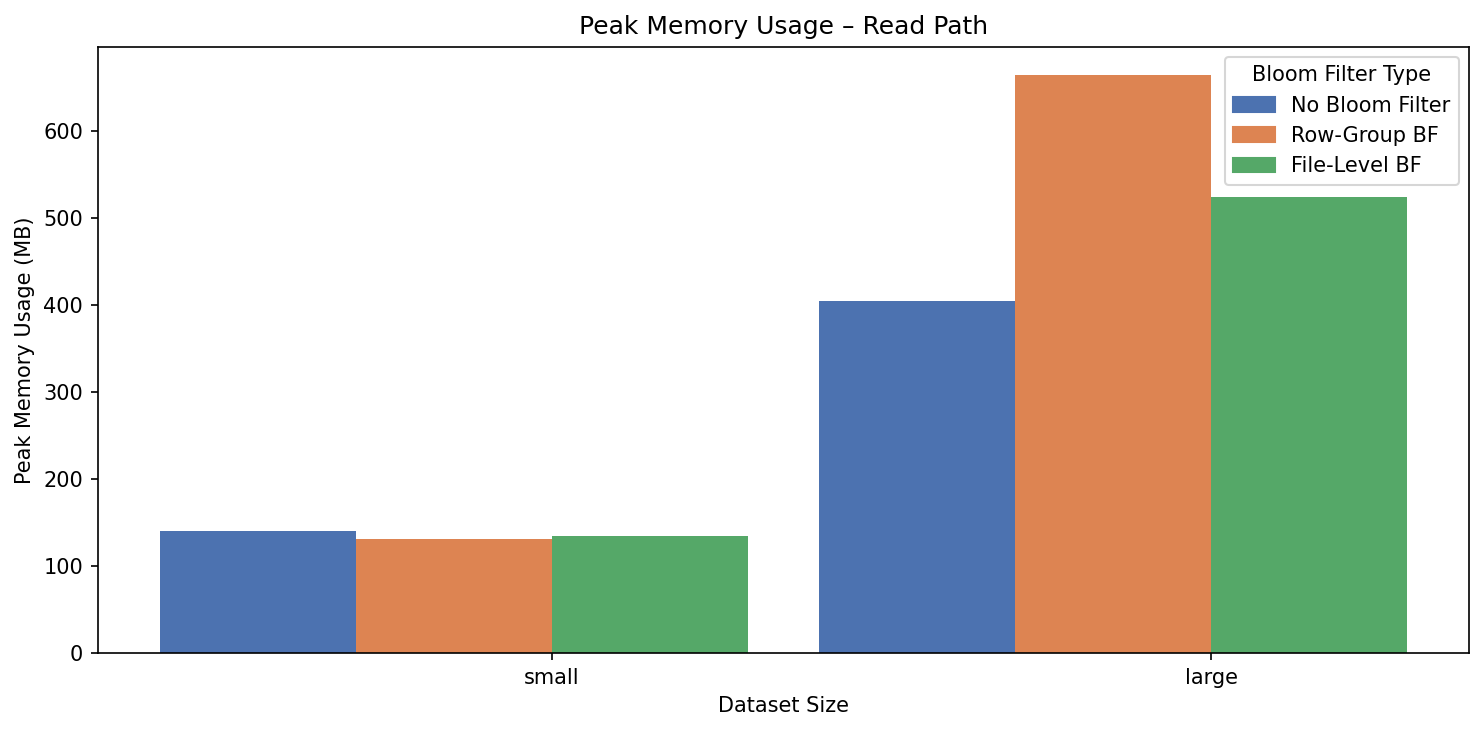
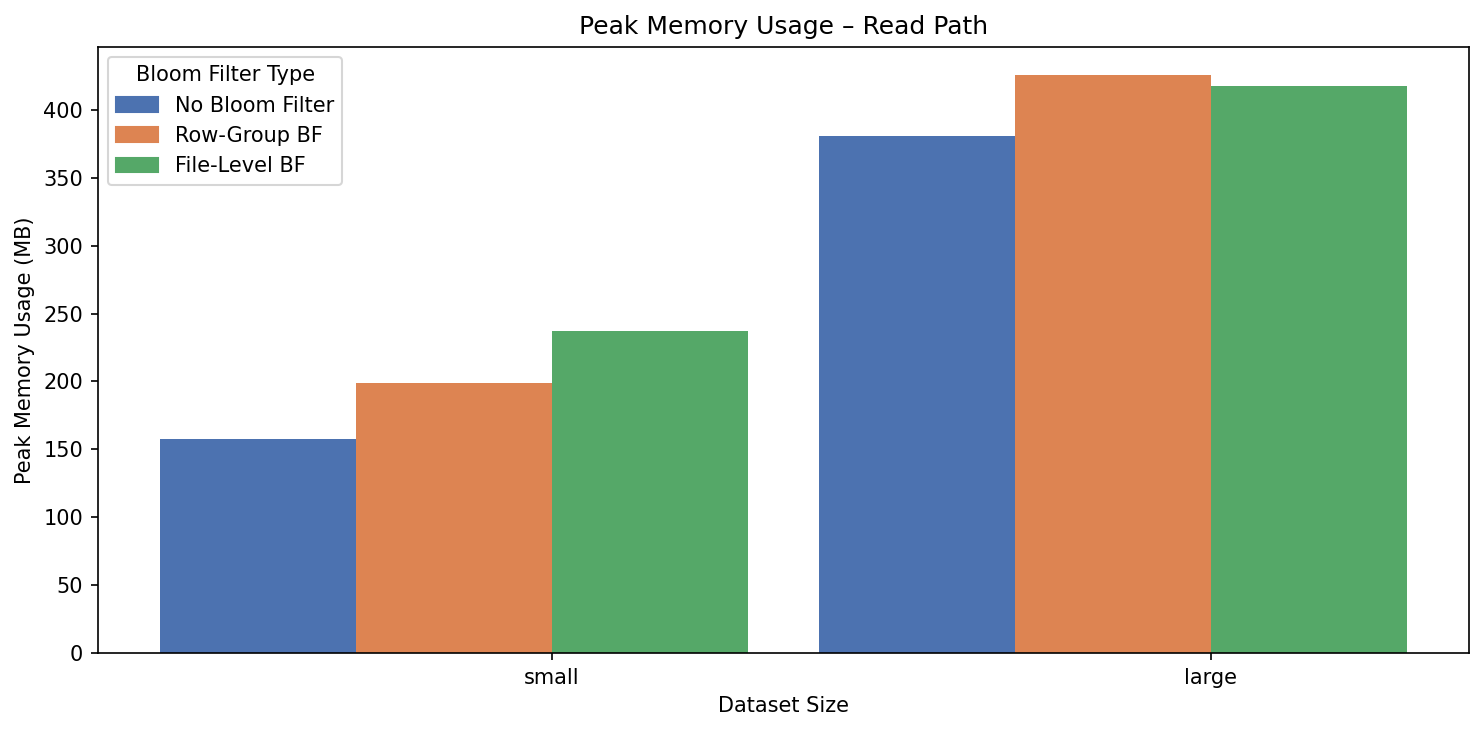
super experiment python script with new graphs averaged from 5 runs

diff --git a/dev-spark/super_experiment.py b/dev-spark/super_experiment.py
@@ -1,0 +1,229 @@
+#!/usr/bin/env python3
+"""
+Super experiment: runs each (bloom_mode x dataset_size) combination N times,
+averages the noisy metrics (memory, time), and writes bloom_filter_results.json.
+
+Table creation runs once per (mode, size) — it is deterministic.
+ReadTableSpark runs N times per combination and the measurements are averaged.
+
+Usage (from repo root):
+  python dev-spark/super_experiment.py
+
+Custom run count:
+  python dev-spark/super_experiment.py --runs 5
+"""
+
+import argparse
+import json
+import subprocess
+import sys
+from pathlib import Path
+from typing import Any, Dict, List, Optional, Tuple
+
+REPO_ROOT = Path(__file__).resolve().parents[1]
+DEV_SPARK = REPO_ROOT / "dev-spark"
+GRAPHING = REPO_ROOT / "graphing_scripts"
+OUTPUT_JSON = GRAPHING / "bloom_filter_results.json"
+
+BLOOM_MODES = ["none", "row_group", "file_level"]
+DATASET_SIZES = [
+    ("small", 10, 100_000),   # 10 files x 100K rows = 1M rows
+    ("large", 50, 500_000),   # 50 files x 500K rows = 25M rows
+]
+
+
+def run_gradle(task: str, run_args: Optional[str] = None) -> None:
+    cmd = ["./gradlew", task]
+    if run_args is not None:
+        cmd.append(f"-PrunArgs={run_args}")
+    print(f"  Running: {' '.join(cmd)}")
+    r = subprocess.run(cmd, cwd=REPO_ROOT)
+    if r.returncode != 0:
+        sys.exit(r.returncode)
+
+
+def load_json(path: Path) -> Dict[str, Any]:
+    with path.open() as f:
+        return json.load(f)
+
+
+def _n(v: Any, default: float = 0.0) -> float:
+    return float(v) if v is not None else default
+
+
+def _int(v: Any, default: int = 0) -> int:
+    return int(v) if v is not None else default
+
+
+def _avg(values: List[Any]) -> float:
+    nums = [float(v) for v in values if v is not None]
+    return sum(nums) / len(nums) if nums else 0.0
+
+
+def _avg_int(values: List[Any]) -> Optional[int]:
+    nums = [float(v) for v in values if v is not None]
+    return round(sum(nums) / len(nums)) if nums else None
+
+
+def merge_read_metrics(runs: List[Dict[str, Any]]) -> Dict[str, Any]:
+    """
+    Average the noisy float measurements across runs.
+    Deterministic counts/sizes are taken from the first run unchanged.
+    """
+    merged = dict(runs[0])
+    merged["maxMemoryUsage"] = _avg([r.get("maxMemoryUsage") for r in runs])
+    merged["planningMemoryUsage"] = _avg([r.get("planningMemoryUsage") for r in runs])
+    merged["totalReadDuration"] = _avg_int([r.get("totalReadDuration") for r in runs])
+    return merged
+
+
+def build_results(
+    experiments: List[Tuple[str, str, Dict[str, Any], Dict[str, Any]]],
+    dataset_size_labels: List[str],
+) -> Dict[str, Any]:
+    """Build bloom_filter_results.json in the format expected by graphing_scripts."""
+    bf_key = {
+        "none": "no_bloom_filter",
+        "row_group": "row_group_bloom_filter",
+        "file_level": "file_level_bloom_filter",
+    }
+    by_mode_size: Dict[Tuple[str, str], Tuple[Dict[str, Any], Dict[str, Any]]] = {}
+    for mode, size_label, w, r in experiments:
+        by_mode_size[(mode, size_label)] = (w, r)
+
+    pruning_read = {k: [] for k in bf_key.values()}
+    disk_storage_bytes = {k: [] for k in bf_key.values()}
+    memory_read_mb = {k: [] for k in bf_key.values()}
+    planning_memory_read_mb = {k: [] for k in bf_key.values()}
+    execution_memory_read_mb = {k: [] for k in bf_key.values()}
+    memory_write_mb = {k: [] for k in bf_key.values()}
+    time_read_ms = {k: [] for k in bf_key.values()}
+    time_write_ms = {k: [] for k in bf_key.values()}
+
+    def sec_to_ms(x: Any) -> int:
+        return round(_n(x) * 1000)
+
+    for key in bf_key.values():
+        mode = next(m for m, k in bf_key.items() if k == key)
+        for size_label in dataset_size_labels:
+            pair = by_mode_size.get((mode, size_label))
+            if not pair:
+                continue
+            w, r = pair
+            total_rg = w.get("totalRowGroups") if w.get("totalRowGroups") is not None else r.get("totalRowGroups")
+            pruning_read[key].append({
+                "total_row_groups": _int(total_rg),
+                "skipped_row_groups": _int(r.get("skippedRowGroups")),
+                "total_data_files": _int(w.get("totalDataFiles")),
+                "skipped_data_files": _int(r.get("skippedDataFiles")),
+            })
+            disk_storage_bytes[key].append({
+                "puffin_bytes": _int(w.get("puffinDiskSizeInBytes")),
+                "manifest_overhead_bytes": 0,
+            })
+            memory_read_mb[key].append(_n(r.get("maxMemoryUsage")))
+            planning_memory_read_mb[key].append(_n(r.get("planningMemoryUsage")))
+            execution_memory_read_mb[key].append(
+                max(0.0, _n(r.get("maxMemoryUsage")) - _n(r.get("planningMemoryUsage")))
+            )
+            memory_write_mb[key].append(_n(w.get("maxMemoryUsage")))
+            total_read_ms = r.get("totalReadDuration")
+            if total_read_ms is not None:
+                total_read_ms = round(_n(total_read_ms))
+            time_read_ms[key].append({
+                "metadata_ms": sec_to_ms(r.get("manifestReadDuration")),
+                "puffin_ms": sec_to_ms(r.get("puffinReadDuration")),
+                "data_ms": sec_to_ms(r.get("datafileReadDuration")),
+                "total_ms": total_read_ms,
+            })
+            total_write_ms = w.get("totalWriteDuration")
+            if total_write_ms is not None:
+                total_write_ms = round(sec_to_ms(total_write_ms))
+            time_write_ms[key].append({
+                "metadata_ms": sec_to_ms(w.get("manifestWriteDuration")),
+                "puffin_ms": sec_to_ms(w.get("puffinWriteDuration")),
+                "data_ms": sec_to_ms(w.get("datafileWriteDuration")),
+                "total_ms": total_write_ms,
+            })
+
+    return {
+        "dataset_sizes": dataset_size_labels,
+        "pruning_read": pruning_read,
+        "disk_storage_bytes": disk_storage_bytes,
+        "memory_read_mb": memory_read_mb,
+        "planning_memory_read_mb": planning_memory_read_mb,
+        "execution_memory_read_mb": execution_memory_read_mb,
+        "memory_write_mb": memory_write_mb,
+        "time_read_ms": time_read_ms,
+        "time_write_ms": time_write_ms,
+    }
+
+
+def main() -> None:
+    parser = argparse.ArgumentParser(
+        description="Super experiment: run each bloom mode N times and average results."
+    )
+    parser.add_argument("--runs", type=int, default=3, help="Read runs per experiment (default: 3)")
+    args = parser.parse_args()
+    n_runs = args.runs
+
+    dataset_labels = [label for label, _, _ in DATASET_SIZES]
+    total = len(DATASET_SIZES) * len(BLOOM_MODES)
+    print(f"Super experiment: {n_runs} read run(s) per combination ({total} combinations)")
+    print(f"Dataset sizes: {dataset_labels}")
+
+    experiments = []
+
+    for size_label, num_files, records_per_file in DATASET_SIZES:
+        for mode in BLOOM_MODES:
+            run_args = f"{mode},{num_files},{records_per_file}"
+            print(f"\n=== [{size_label}] bloom={mode} ({num_files} files x {records_per_file} rows) ===")
+
+            # Table creation is deterministic — create once, read N times
+            print(f"  [write 1/1]")
+            run_gradle(":iceberg-dev-spark:run", run_args=run_args)
+            write_path = DEV_SPARK / "write-metrics.json"
+            if not write_path.exists():
+                print(f"  WARNING: {write_path} not found, skipping")
+                continue
+            write_metrics = load_json(write_path)
+
+            read_runs: List[Dict[str, Any]] = []
+            for i in range(n_runs):
+                print(f"  [read {i + 1}/{n_runs}]")
+                run_gradle(":iceberg-dev-spark:runReadTable")
+                read_path = DEV_SPARK / "read-metrics.json"
+                if not read_path.exists():
+                    print(f"  WARNING: {read_path} not found on run {i + 1}, skipping")
+                    continue
+                read_runs.append(load_json(read_path))
+
+            if not read_runs:
+                print(f"  WARNING: no read runs collected, skipping")
+                continue
+
+            avg_read = merge_read_metrics(read_runs)
+            print(f"  Averaged {len(read_runs)} run(s):")
+            print(f"    maxMemoryUsage:      {avg_read['maxMemoryUsage']:.2f} MB")
+            if avg_read.get("planningMemoryUsage") is not None:
+                print(f"    planningMemoryUsage: {avg_read['planningMemoryUsage']:.2f} MB")
+            if avg_read.get("totalReadDuration") is not None:
+                print(f"    totalReadDuration:   {avg_read['totalReadDuration']} ms")
+
+            experiments.append((mode, size_label, write_metrics, avg_read))
+
+    if not experiments:
+        print("No experiments collected.")
+        sys.exit(1)
+
+    results = build_results(experiments, dataset_labels)
+    GRAPHING.mkdir(parents=True, exist_ok=True)
+    with OUTPUT_JSON.open("w") as f:
+        json.dump(results, f, indent=2)
+
+    print(f"\nWrote {len(experiments)} experiment(s) ({n_runs} read runs each) to {OUTPUT_JSON}")
+    print("Run graphing scripts from repo root: python graphing_scripts/plot_all.py")
+
+
+if __name__ == "__main__":
+    main()
